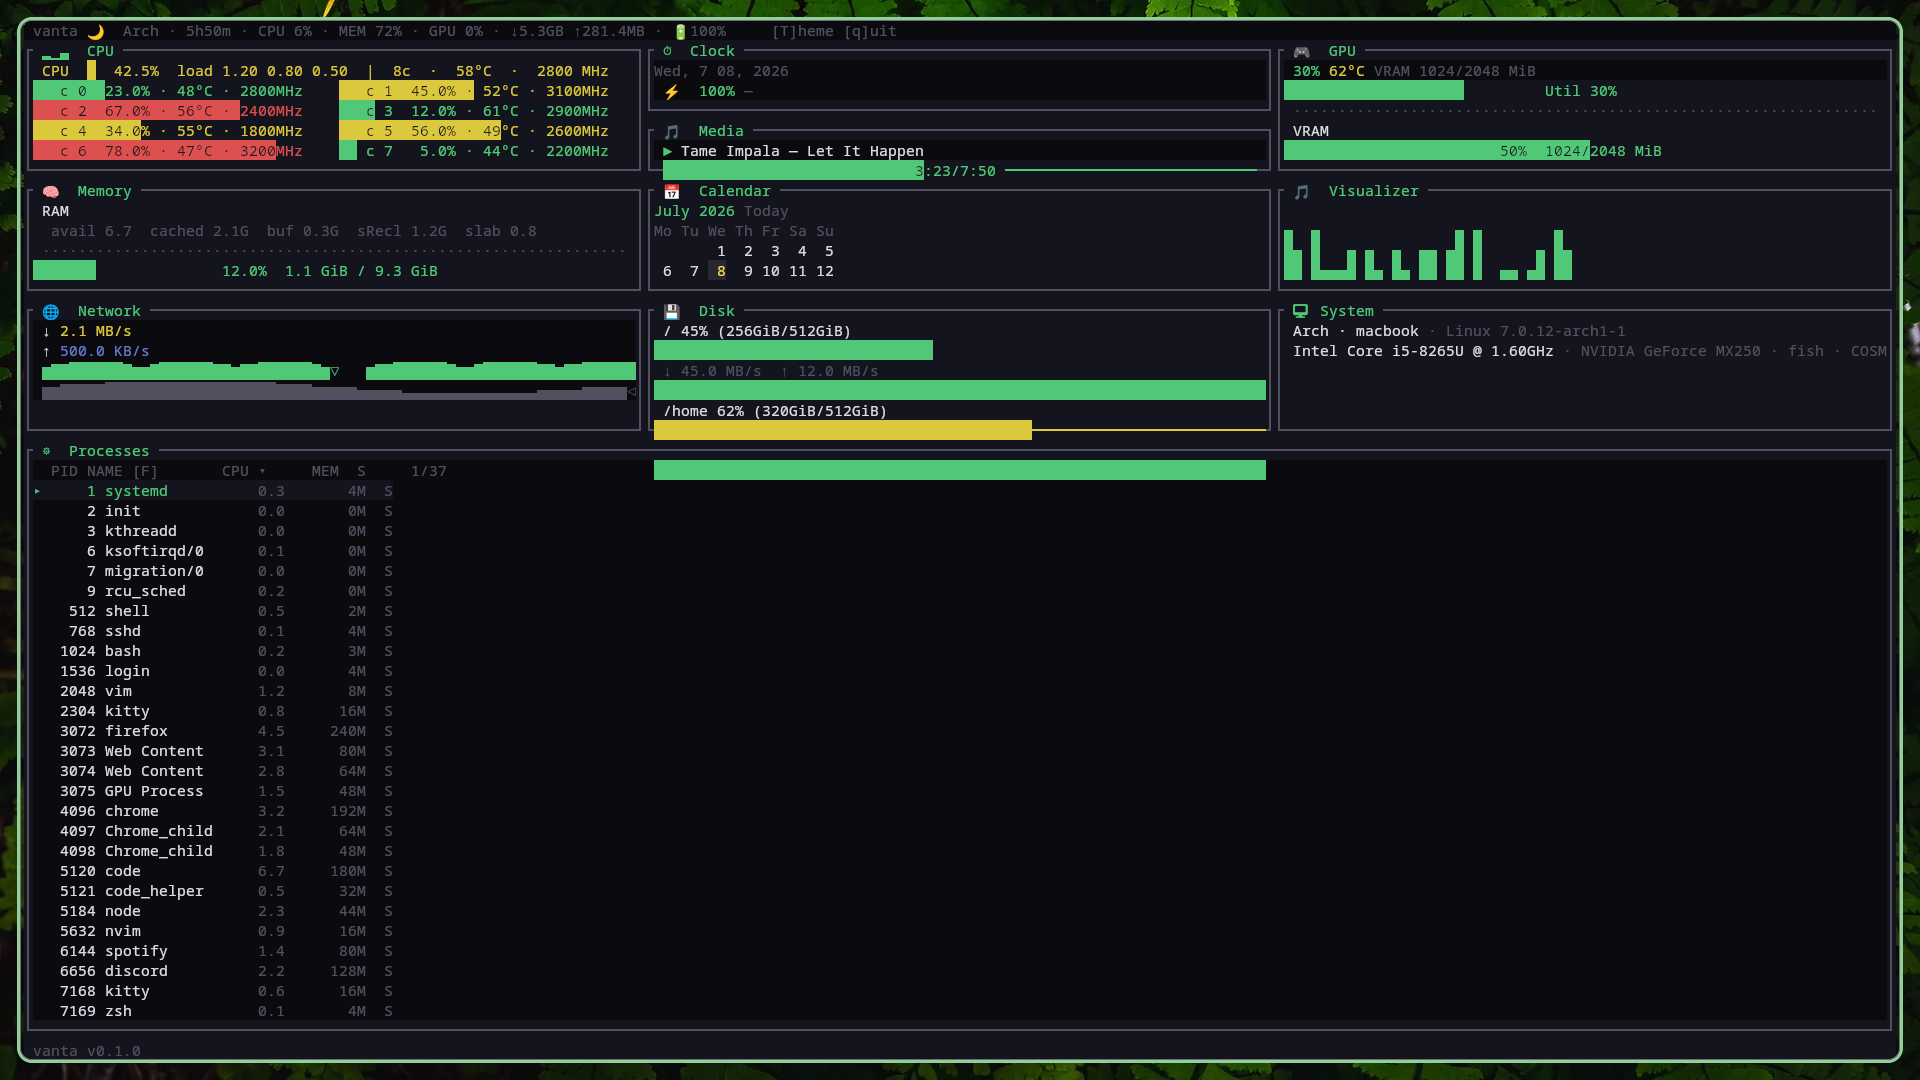
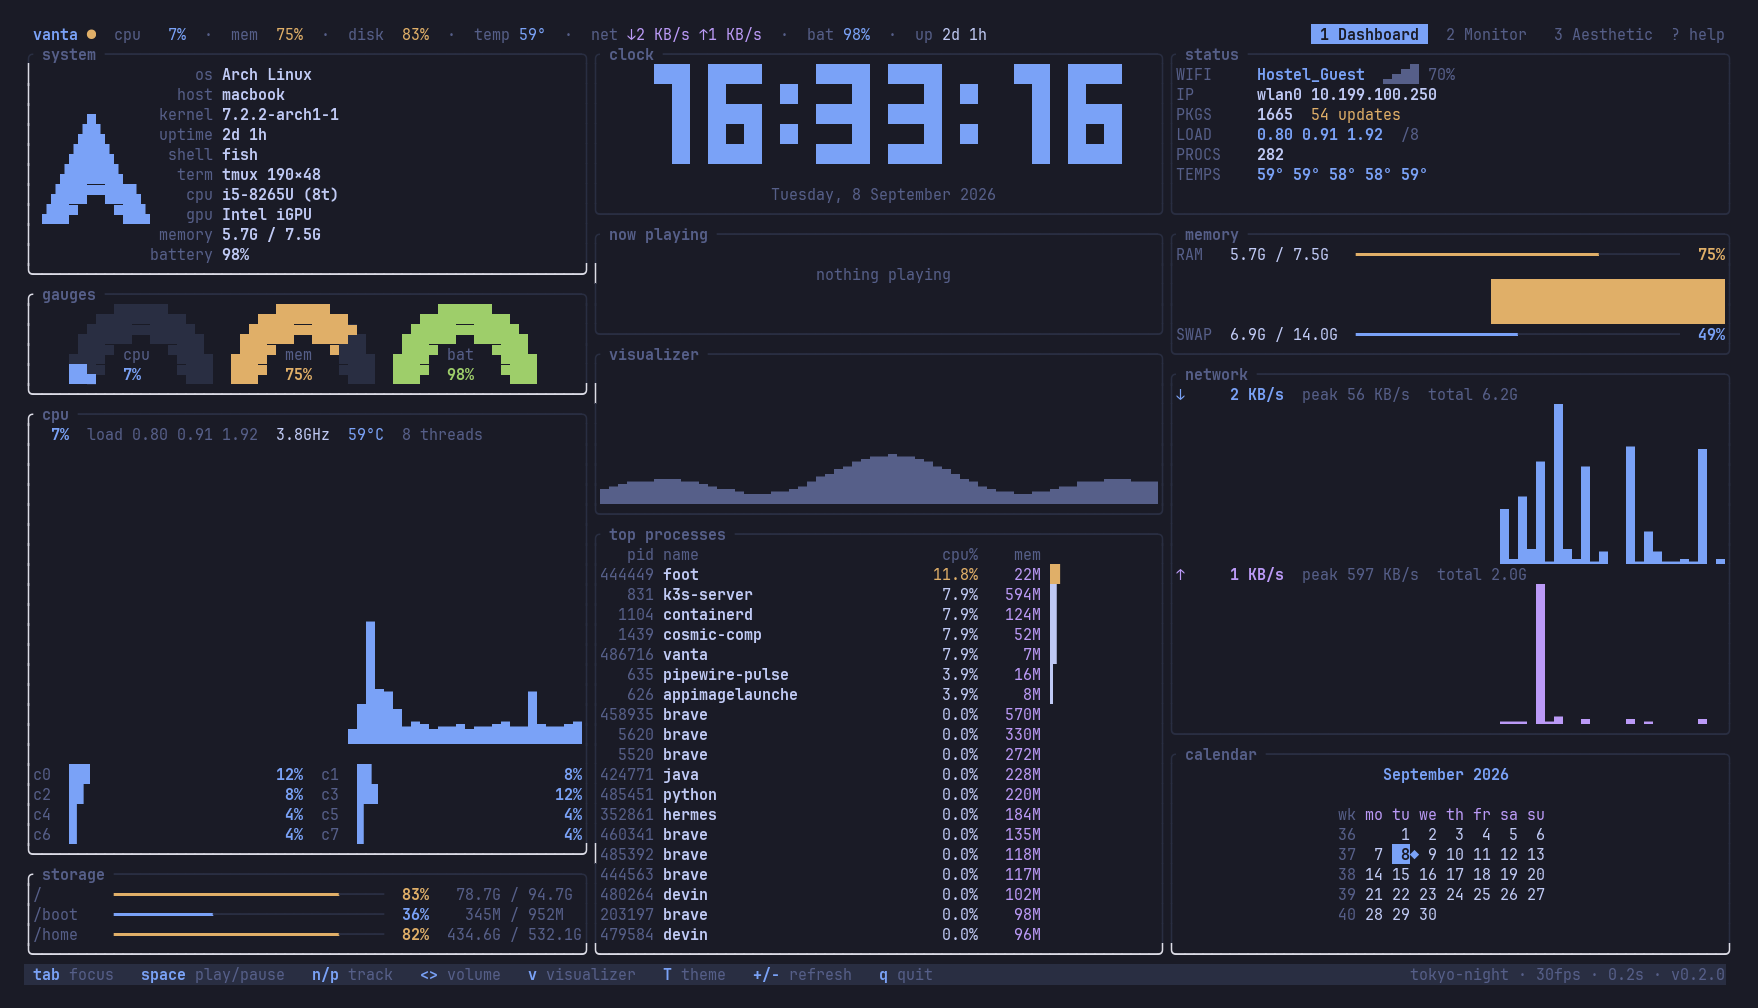
Refresh screenshots, rewrite CONTRIBUTING for the Rust crate
The old CONTRIBUTING was an npm boilerplate; it now documents the sampler
thread contract and the exact CI checks. Website copy updated for 8 themes.

Generated with [Devin](https://devin.ai)

diff --git a/website/index.html b/website/index.html
@@ -116,8 +116,8 @@
                 <p>Control your music, view live visualizers, and check playback status.</p>
              </div>
              <div class="h-card liquid-glass-refraction">
-                <h3>Four Themes</h3>
-                <p>Built-in themes (Dark, Light, Dracula, Solarized) with hot-swapping.</p>
+                <h3>Eight Themes</h3>
+                <p>Dark, Catppuccin, Tokyo Night, Nord, Gruvbox, Dracula, Light and Solarized — cycle live with <code>T</code>.</p>
              </div>
           </div>
        </div>

diff --git a/CONTRIBUTING.md b/CONTRIBUTING.md
@@ -1,47 +1,48 @@
-# Contributing to ziuus Projects
+# Contributing to vanta
 
-Thank you for your interest in contributing! We welcome contributions from the community.
+## Setup
 
-## Code of Conduct
-This project adheres to a code of conduct. Please be respectful and inclusive.
-
-## Getting Started
-1. Fork the repository
-2. Create a feature branch (`git checkout -b feature/amazing-feature`)
-3. Commit your changes (`git commit -m 'Add amazing feature'`)
-4. Push to the branch (`git push origin feature/amazing-feature`)
-5. Open a Pull Request
-
-## Development Setup
 ```bash
-# Clone your fork
-git clone https://github.com/yourusername/project.git
-cd project
+# libdbus is needed for MPRIS media control
+sudo pacman -S dbus            # Arch
+sudo apt install libdbus-1-dev # Debian/Ubuntu
 
-# Install dependencies
-npm install
-
-# Run development server
-npm run dev
-
-# Run tests
-npm test
+git clone https://github.com/ziuus/vanta && cd vanta
+cargo run --release
 ```
 
-## Project-Specific Guidelines
-- See project README for specific requirements
-- Follow existing code style and conventions
-- Write tests for new features
-- Update documentation as needed
+Optional runtime tools that light up extra panels: `cava` (visualizer),
+`nmcli` (wifi), `docker`, `checkupdates` (Arch), `nvidia-smi`.
 
-## Pull Request Guidelines
-- Ensure tests pass
-- Update documentation
-- Add comments for complex code
-- Reference related issues
+## Before opening a PR
 
-## Questions?
-Open an issue or contact the maintainers.
+CI runs exactly this; make it pass locally first:
 
-## License
-By contributing, you agree that your contributions will be licensed under the MIT License.
+```bash
+cargo fmt --all -- --check
+cargo clippy --all-targets -- -D warnings
+cargo test
+```
+
+## How the code is organised
+
+- `src/monitors/` — data collection. Each module owns a `static` snapshot and a
+  `sample()` that runs on the **sampler thread** (`monitors/mod.rs`). Never do
+  I/O in a `render()`; read the snapshot instead. Do the slow work *before*
+  taking the lock so the UI never waits on it.
+- `src/widgets/` — pure drawing helpers (clock glyphs, gauges, graphs, meters).
+- `src/screens/` — one file per page; `screens::panel()` is the shared chrome.
+- `src/app.rs` — state, key handling, title/status bars.
+- `src/theme.rs` — palettes. Add a theme by adding a constructor and its name
+  to `THEME_NAMES`.
+
+## Conventions
+
+- Panels must degrade, not overflow: check `area.width/height` and return
+  early or drop detail when tight. Test at 100×34 and 200×50 (`tmux -x -y`).
+- Truncate strings with `meter::ellipsize` (char-safe), never byte slicing.
+- Colours come from the theme (`theme.usage(pct)`, `theme.temp(c)`), not
+  literals.
+- Commit messages: imperative subject, body explains *why*.
+
+By contributing you agree your work is licensed under the MIT License.

diff --git a/README.md b/README.md
@@ -21,6 +21,8 @@ Vanta collapses everything you care about into one terminal pane: CPU, memory, d
 | `3` | **Aesthetic** | Huge clock, calendar, matrix rain, spinning donut, full-width visualizer |
 | `?` | **Help** | Keybind reference overlay |
 
+<img src="docs/aesthetic.png" alt="Aesthetic page" width="800" />
+
 ## Keys
 
 | Key | Action |
